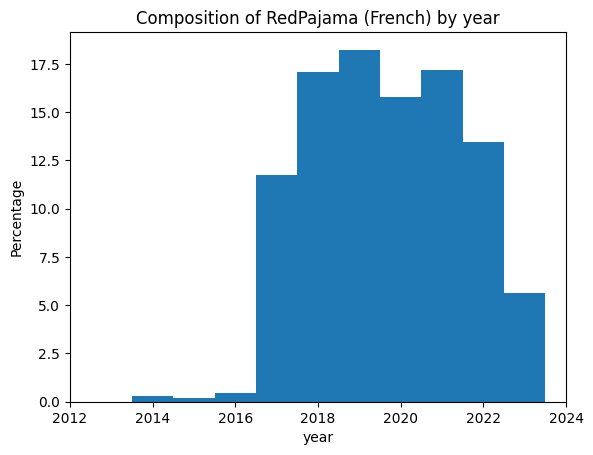
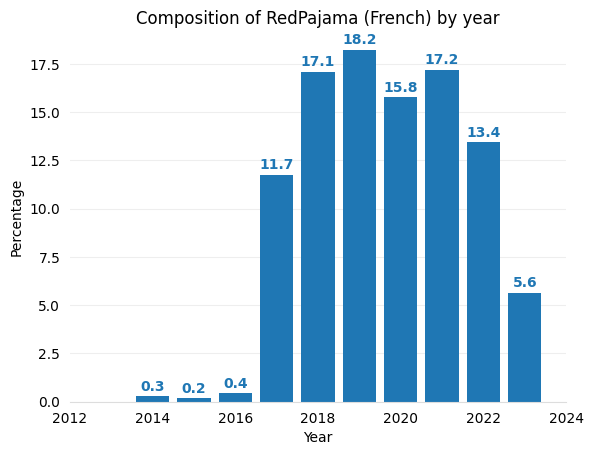
update histograms

diff --git a/assets/hugging_face/generate_dataset_table.py b/assets/hugging_face/generate_dataset_table.py
@@ -160,9 +160,8 @@ def plot_extra_distribution(extra, name=None):
     # Clear figure
     plt.clf()
     if graph_type == "histogram":
-        fig, ax = plt.subplots()
         # Histogram of years
-        bars = ax.bar(x=[val for _, _, _, val in extra_list], height=ratios, width=0.8)
+        bars = plt.bar(x=[val for _, _, _, val in extra_list], height=ratios, width=0.8)
         plt.ylabel("Percentage")
         if suffix:
             plt.xlabel(suffix.split()[-1].capitalize())
@@ -172,19 +171,19 @@ def plot_extra_distribution(extra, name=None):
         plt.xticks([v for v in xvalues if int(v) == v])
 
         # Axis formatting.
-        ax.spines["top"].set_visible(False)
-        ax.spines["right"].set_visible(False)
-        ax.spines["left"].set_visible(False)
-        ax.spines["bottom"].set_color("#DDDDDD")
-        ax.tick_params(bottom=False, left=False)
-        ax.set_axisbelow(True)
-        ax.yaxis.grid(True, color="#EEEEEE")
-        ax.xaxis.grid(False)
+        plt.gca().spines["top"].set_visible(False)
+        plt.gca().spines["right"].set_visible(False)
+        plt.gca().spines["left"].set_visible(False)
+        plt.gca().spines["bottom"].set_color("#DDDDDD")
+        plt.gca().tick_params(bottom=False, left=False)
+        plt.gca().set_axisbelow(True)
+        plt.gca().yaxis.grid(True, color="#EEEEEE")
+        plt.gca().xaxis.grid(False)
 
         # Add labels to bars
         bar_color = bars[0].get_facecolor()
         for bar in bars:
-            ax.text(
+            plt.text(
                 bar.get_x() + bar.get_width() / 2,
                 bar.get_height() + 0.3,
                 round(bar.get_height(), 1),
